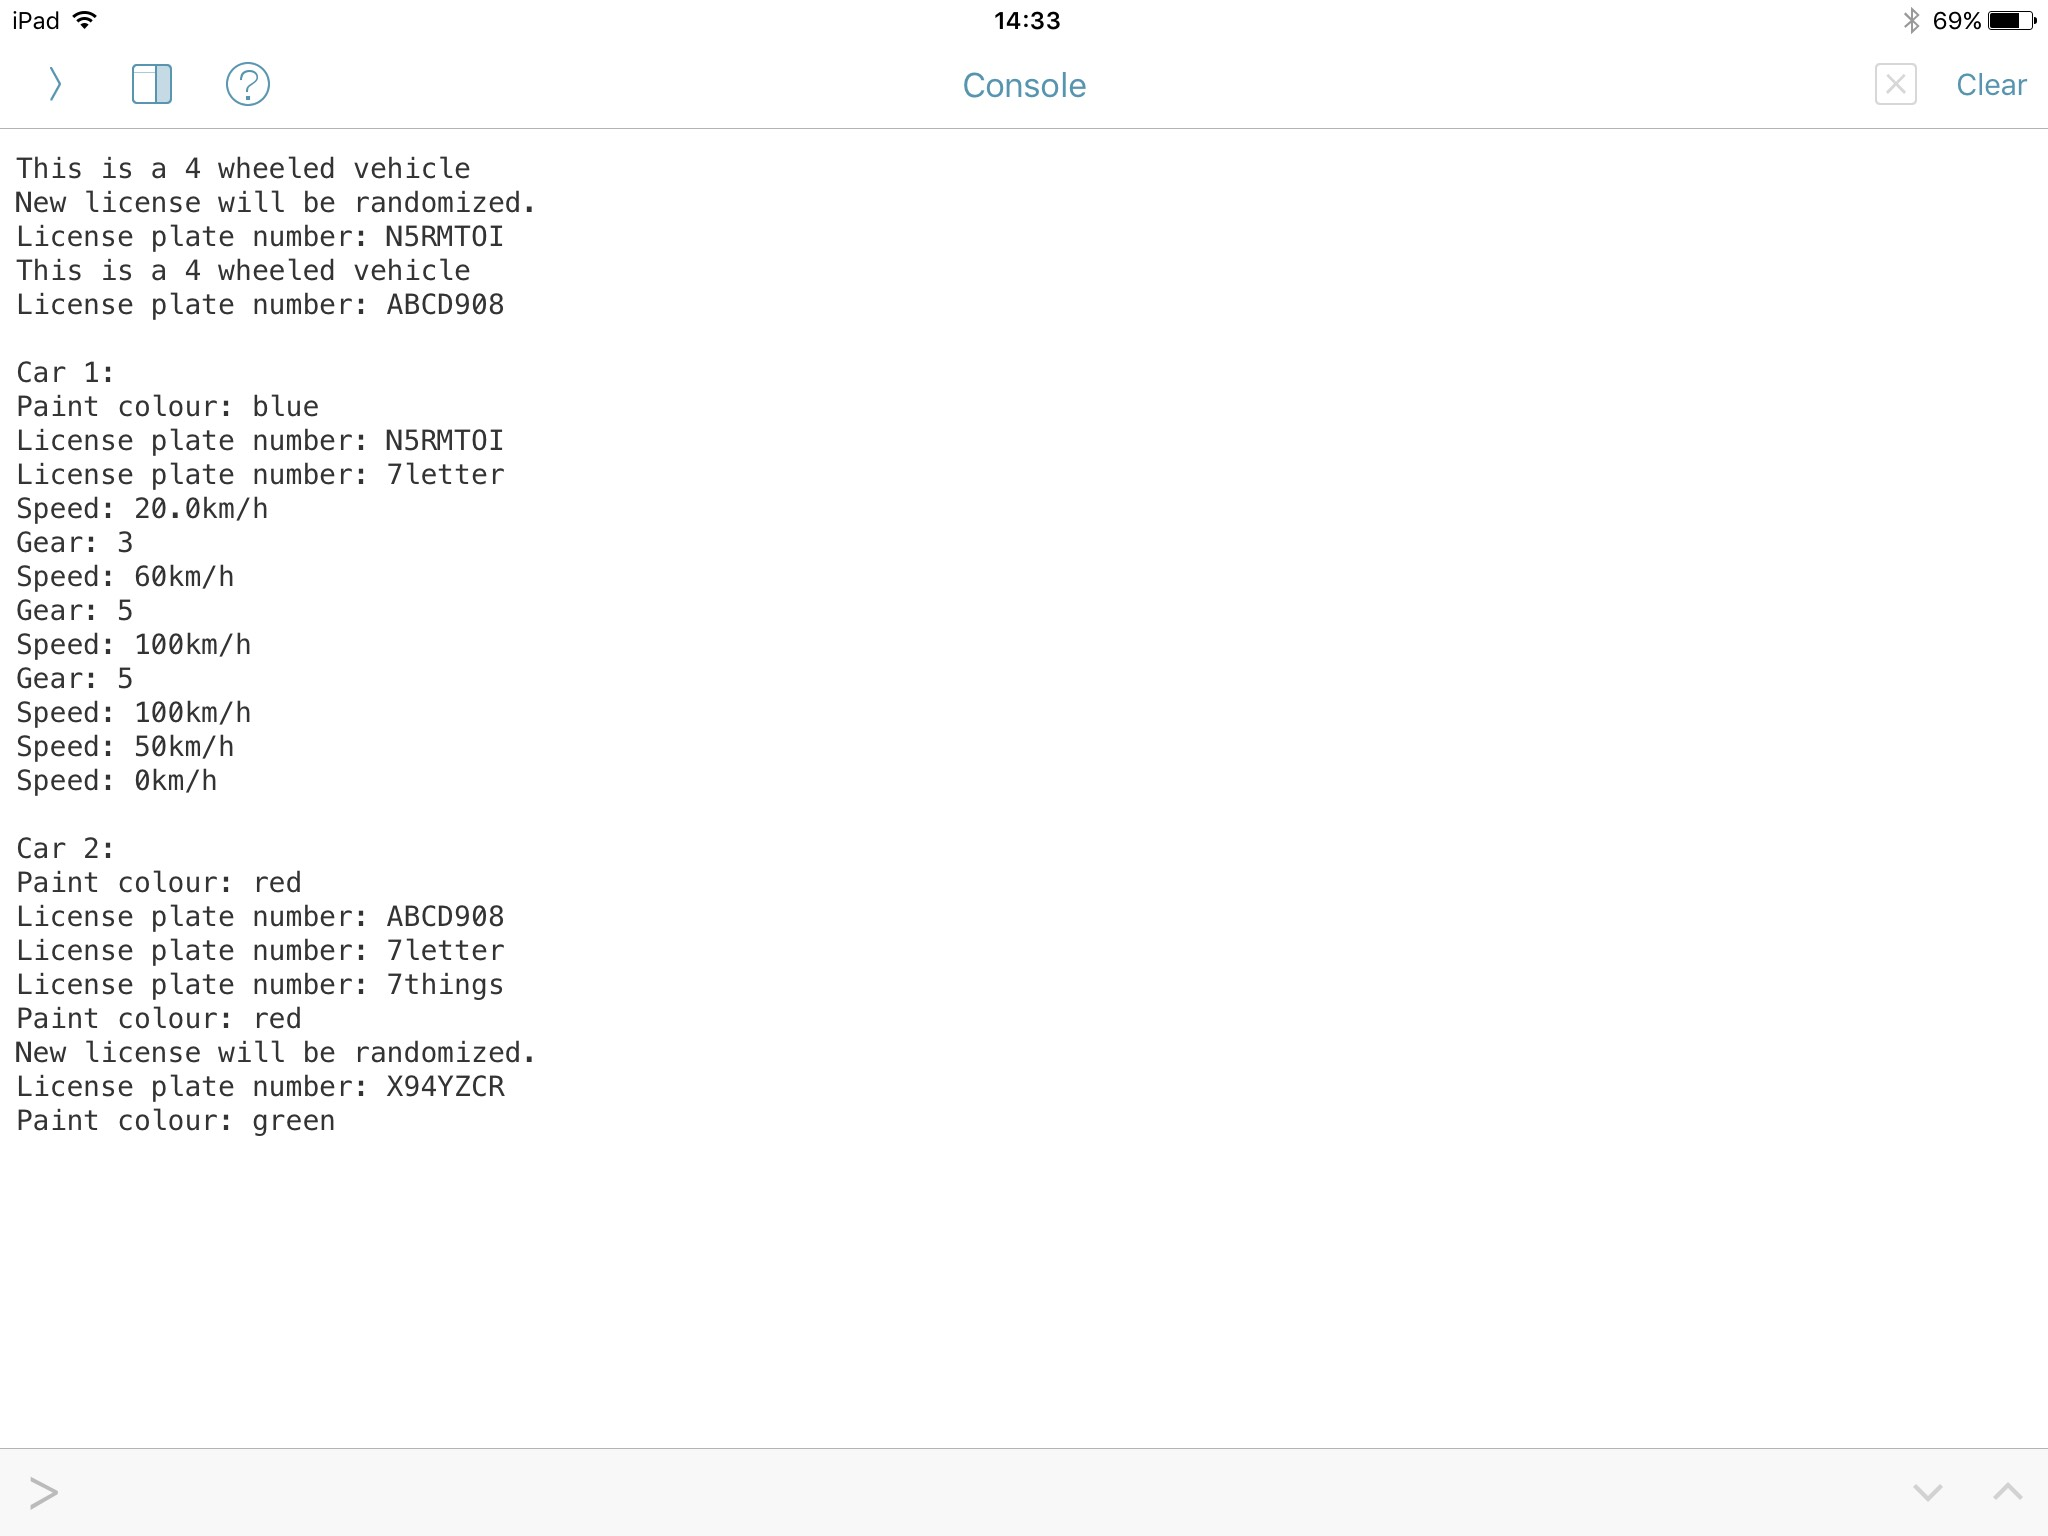
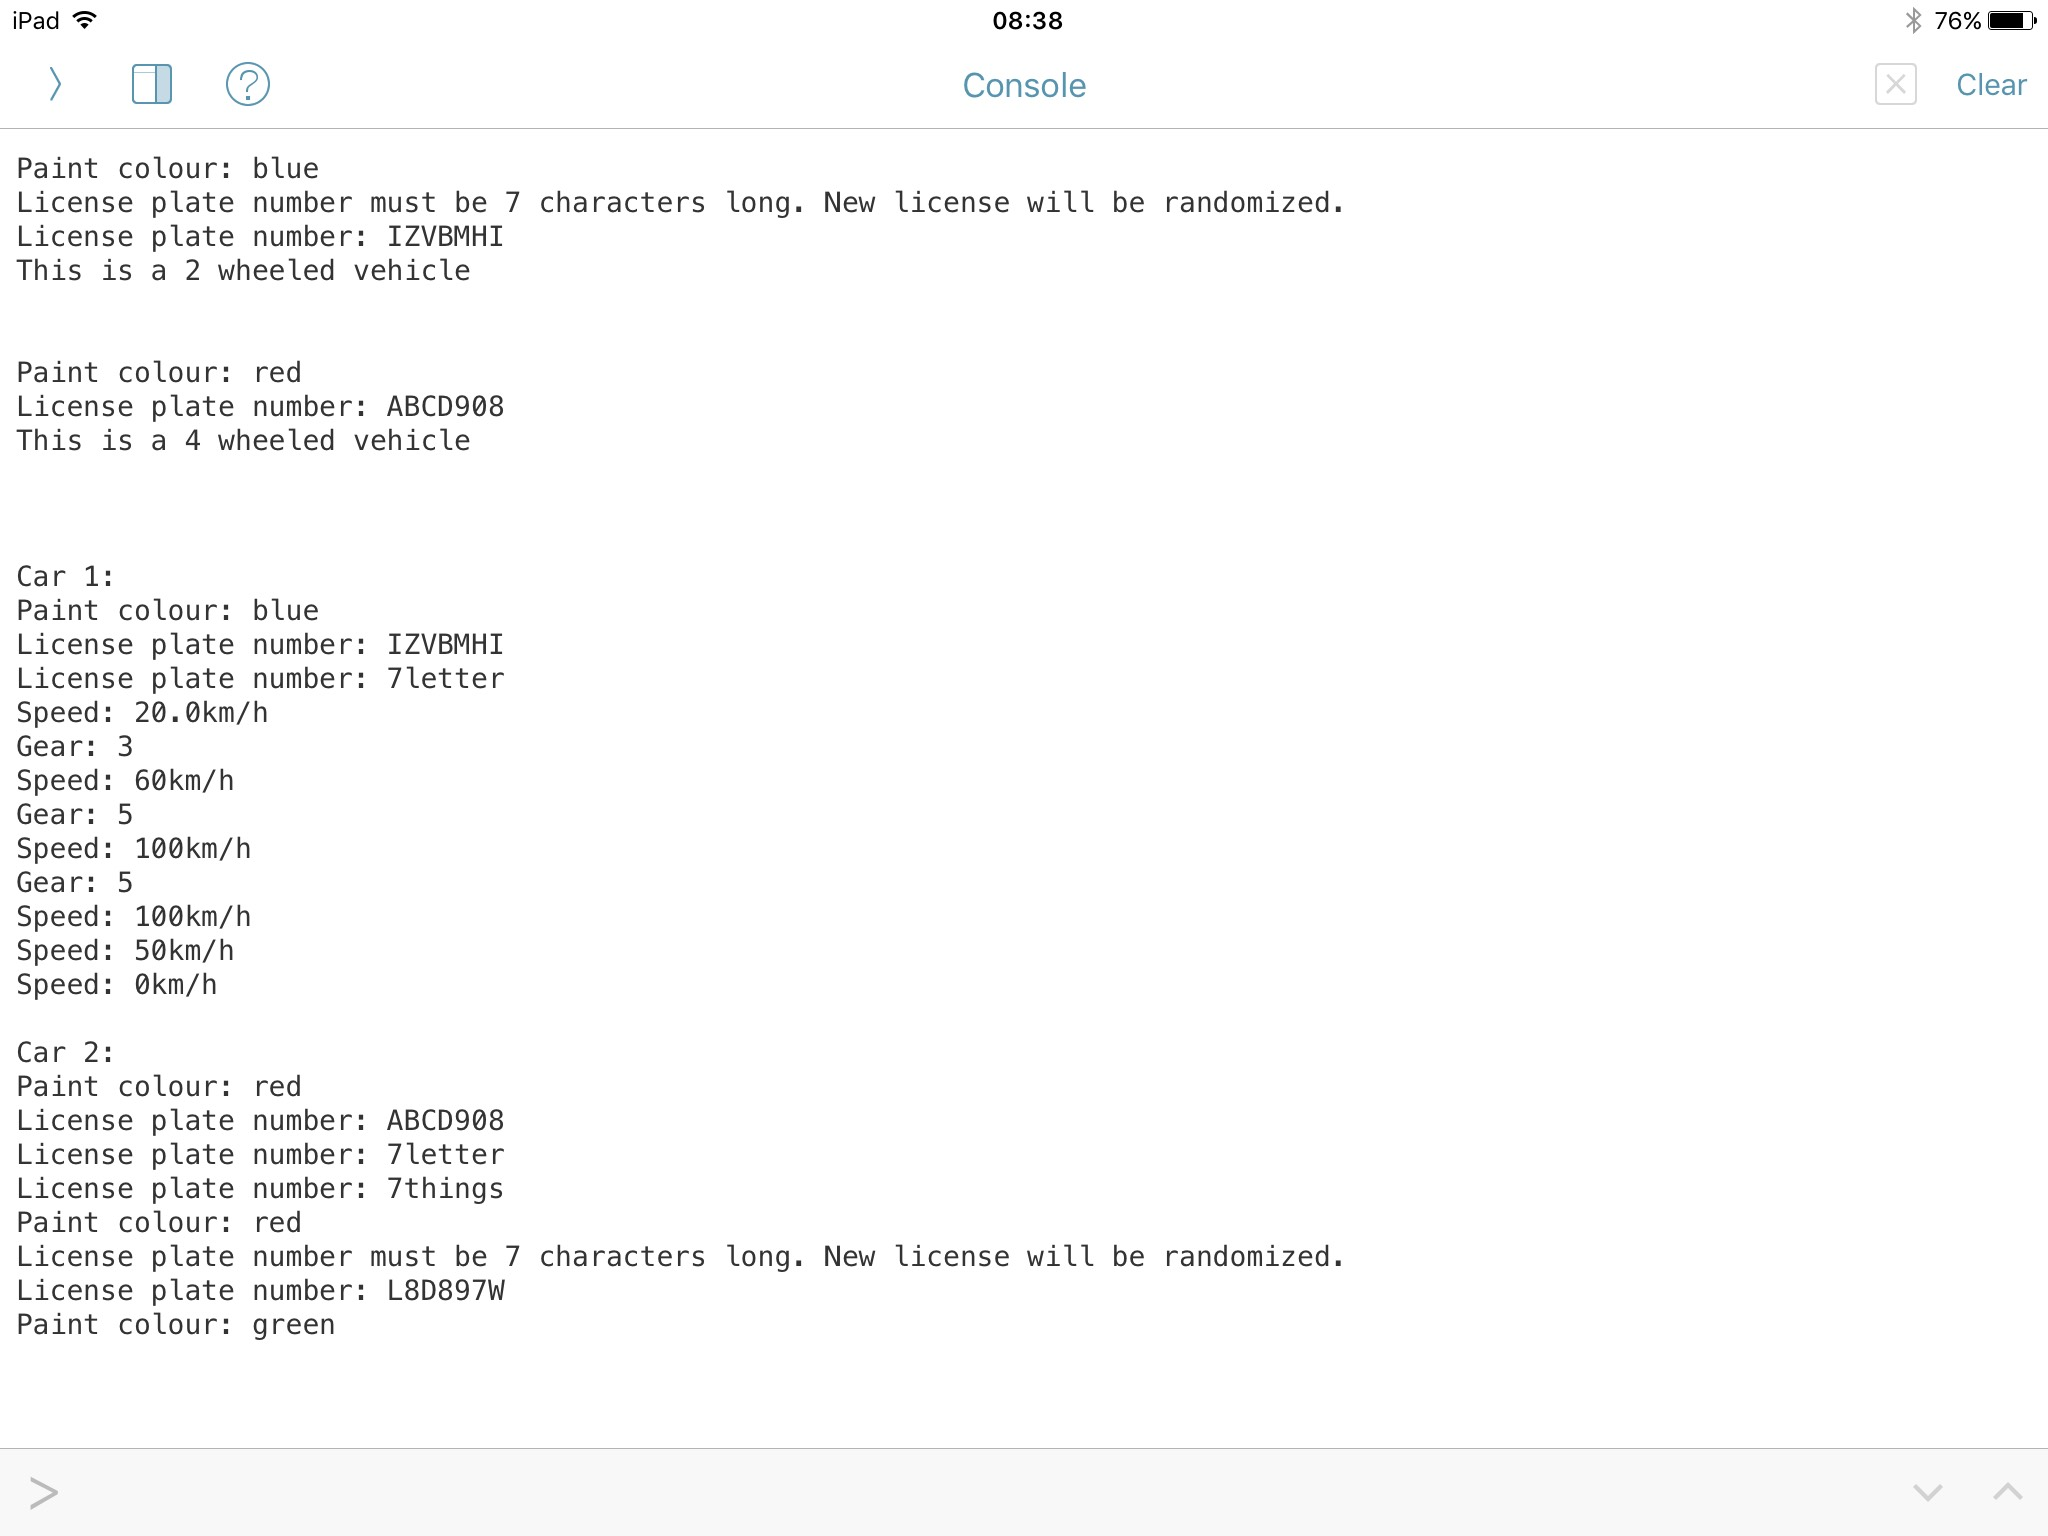
Fixed a few bugs in the program

diff --git a/vehicle.py b/vehicle.py
@@ -17,15 +17,17 @@ class Vehicle:
         #private fields
         
         self.__license_plate_number = 'AAAA000'
-        self.__colour = colour
+        self.__colour = 'white'
         self.__number_of_doors = 4
         self.__speed = 20.0
         self.__gear = 1
         self.__number_of_wheels = 4
         self.__number_of_tires = 4
         
-        self.__set_number_of_wheels(number_of_wheels)
+        self.set_colour(colour)
         self.set_license_plate_number(license_plate_number)
+        self.__set_number_of_wheels(number_of_wheels)
+        print('\n')
     
     # properties
     
@@ -38,7 +40,7 @@ class Vehicle:
         if not len(new_license_plate_number) == 7:
             # license plate should not be set
             self.__randomize_license_plate_number()
-            print('New license will be randomized.')
+            print('License plate number must be 7 characters long. New license will be randomized.')
         else:
             self.__license_plate_number = new_license_plate_number
         print('License plate number: ' + str(self.__license_plate_number))
@@ -94,15 +96,15 @@ class Vehicle:
     
     def __set_number_of_wheels(self, new_number_of_wheels):
         #private set the number of wheels
-        if new_number_of_wheels == 4:
-            self.__number_of_wheels = new_number_of_wheels
-            self.__number_of_tires = new_number_of_wheels
-            print('This is a 4 wheeled vehicle')
-        elif new_number_of_wheels == 2:
-            self.__number_of_wheels = new_number_of_wheels
-            self.__number_of_tires = new_number_of_wheels
+        if new_number_of_wheels == 2:
+            self.__number_of_wheels = 2
+            self.__number_of_tires = 2
             self.__number_of_doors = 0
             print('This is a 2 wheeled vehicle')
+        else:
+            self.__number_of_wheels = 4
+            self.__number_of_tires = 4
+            print('This is a 4 wheeled vehicle')
     
     def __randomize_license_plate_number(self):
         #Randomizes the license plate if nothing is inputted

diff --git a/vehicle_program.py b/vehicle_program.py
@@ -11,7 +11,7 @@
 from vehicle import *
 
 #create a vehicle
-car1 = Vehicle('blue')
+car1 = Vehicle('blue', '', 2)
 car2 = Vehicle('red', 'ABCD908')
 
 print('\nCar 1:')
